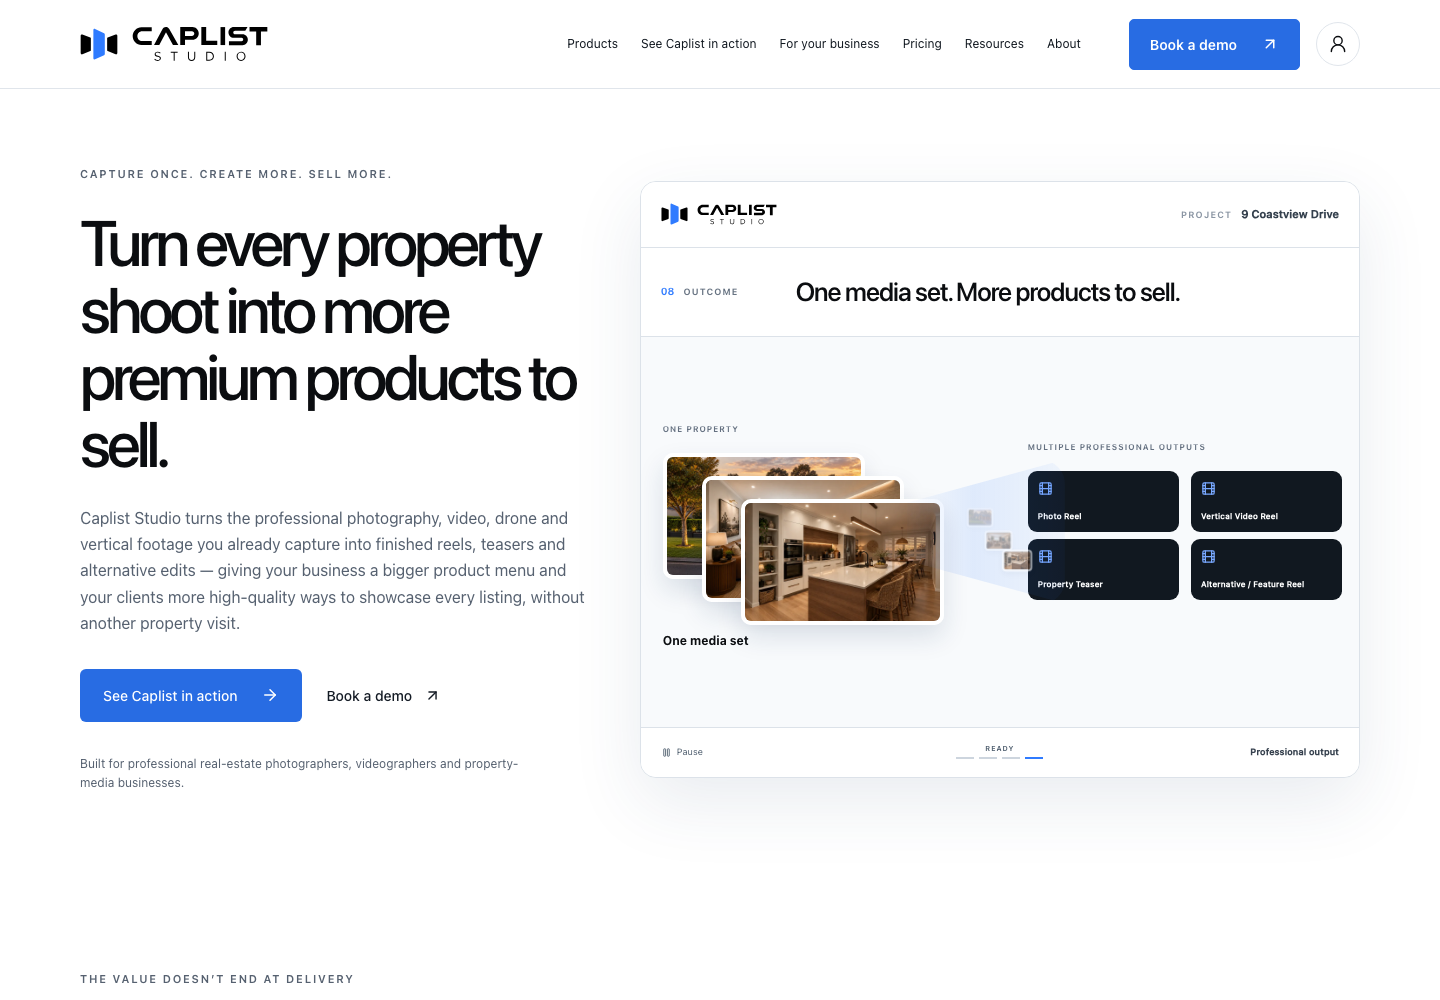
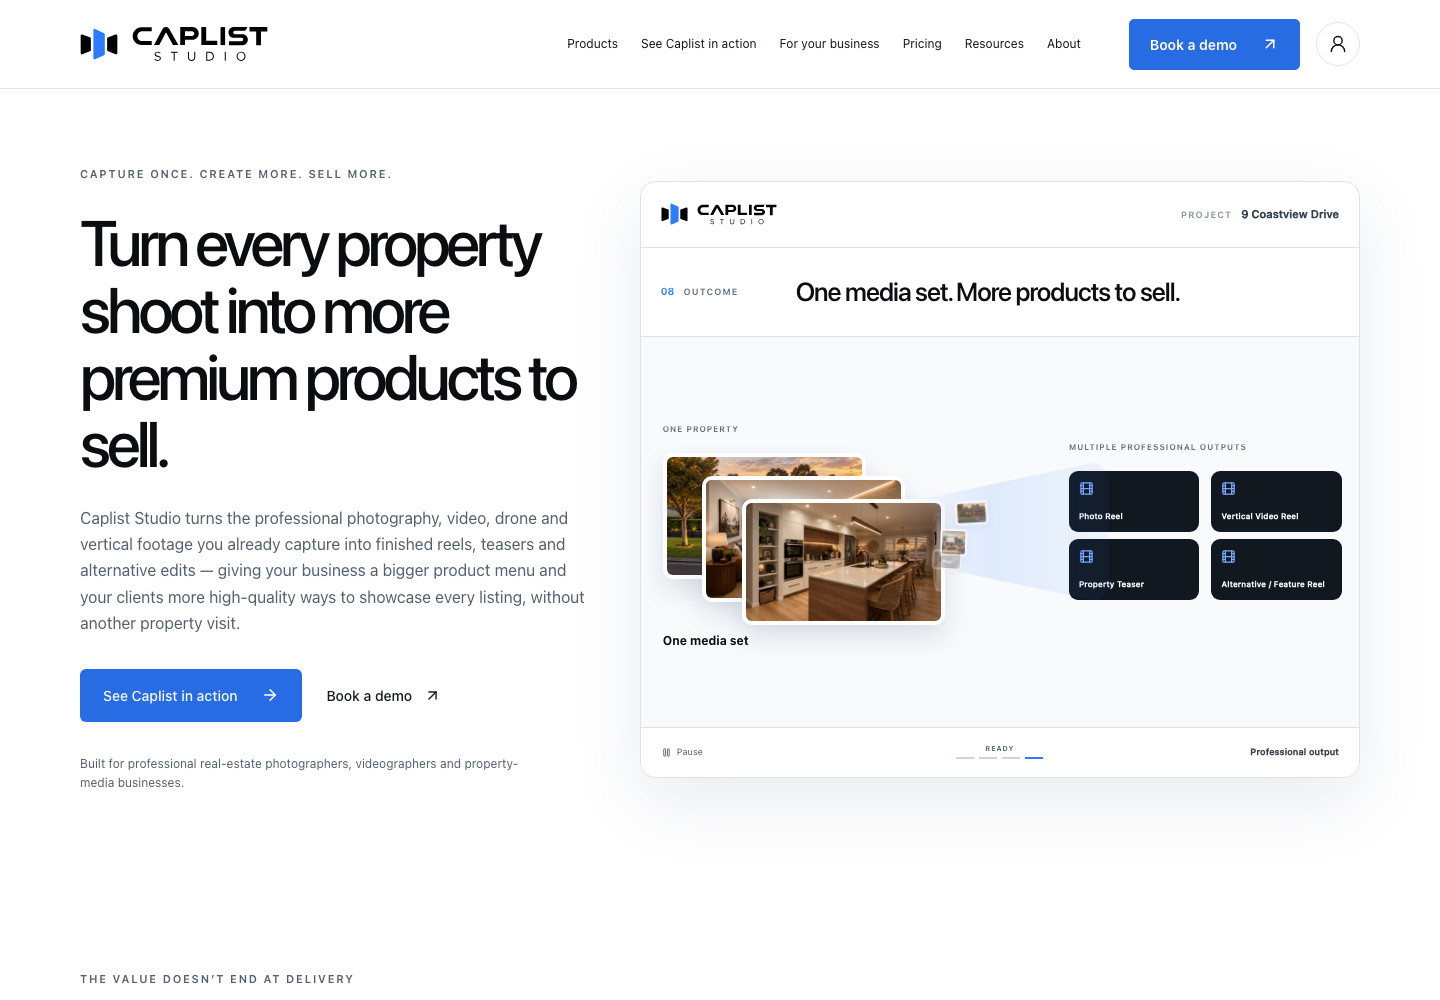
Refine Outcome funnel media flow

Changed region(s): [[0.625, 0.465, 0.7812, 0.62], [0.75, 0.434, 0.9062, 0.62], [0.5, 0.527, 0.5312, 0.558]]

diff --git a/components/home/workflow/workflow.module.css b/components/home/workflow/workflow.module.css
@@ -783,7 +783,7 @@
 .outcomeLayout {
   width: 100%;
   display: grid;
-  grid-template-columns: 1fr auto 1.1fr;
+  grid-template-columns: minmax(0, 1fr) 88px minmax(0, .95fr);
   align-items: center;
   gap: 18px;
 }
@@ -833,7 +833,7 @@
 
 .outcomeBridge {
   position: relative;
-  width: 48px;
+  width: 88px;
   height: 116px;
   display: grid;
   place-items: center;
@@ -841,8 +841,8 @@
 
 .outcomeBridge > i {
   position: absolute;
-  left: -55px;
-  width: calc(100% + 110px);
+  left: -58px;
+  width: calc(100% + 116px);
   height: 144px;
   display: block;
   background: linear-gradient(90deg, #2f7bff04, #2f7bff1f 42%, #2f7bff0c);
@@ -852,25 +852,29 @@
 
 .outcomeFragments {
   position: absolute;
-  inset: 0 -44px;
+  inset: 0 -40px;
   pointer-events: none;
 }
 
 .outcomeFragments img {
   position: absolute;
-  width: 32px;
-  height: 23px;
+  width: 33px;
+  height: 24px;
   object-fit: cover;
   border: 2px solid white;
   border-radius: 4px;
   box-shadow: 0 3px 8px #17385914;
-  left: 22%;
-  top: 28%;
-  opacity: .7;
+  left: 2%;
+  top: 24%;
+  opacity: .82;
+  transform: rotate(-3deg);
 }
 
-.outcomeFragments img:nth-child(2) { left: 43%; top: 48%; opacity: .45; }
-.outcomeFragments img:nth-child(3) { left: 67%; top: 65%; opacity: .2; }
+.outcomeFragments img:nth-child(2) { left: 37%; top: 48%; width: 27px; height: 27px; opacity: .48; transform: rotate(2deg); }
+.outcomeFragments img:nth-child(3) { left: 69%; top: 66%; width: 30px; height: 20px; opacity: .2; transform: rotate(4deg); }
+.animatedFragments img,
+.animatedFragments img:nth-child(2),
+.animatedFragments img:nth-child(3) { left: 2%; }
 .outcomeSource, .outcomeProducts { position: relative; z-index: 1; }
 .outcomeBridge { z-index: 2; pointer-events: none; }
 
@@ -878,6 +882,8 @@
   .outcomeBridge > i { left: -28px; width: calc(100% + 56px); height: 128px; }
   .outcomeFragments { inset-inline: -23px; }
   .outcomeFragments img { width: 20px; height: 15px; border-width: 1px; }
+  .outcomeFragments img:nth-child(2) { width: 17px; height: 17px; }
+  .outcomeFragments img:nth-child(3) { width: 18px; height: 13px; }
 }
 
 .outcomeProducts > div {

diff --git a/components/home/workflow/useWorkflowMotion.ts b/components/home/workflow/useWorkflowMotion.ts
@@ -113,16 +113,23 @@ export function useWorkflowMotion(state: WorkflowState, enabled: boolean, runnin
       case "ready":
         reveal(query("outputDetails"), 140);
         break;
-      case "outcome":
+      case "outcome": {
         run(query("outcomeBridge") + " i", [{ opacity: 0 }, { opacity: 1 }], 160, 360, 100);
-        run(query("outcomeFragments") + " img", [
-          { transform: `translateX(${mobile ? -18 : -35}px) scale(1)`, opacity: 0, filter: "blur(0px)" },
-          { offset: .2, transform: `translateX(${mobile ? -10 : -20}px) scale(1)`, opacity: .8, filter: "blur(0px)" },
-          { offset: .65, opacity: .35, filter: "blur(.5px)" },
-          { transform: `translateX(${mobile ? 16 : 32}px) scale(.75)`, opacity: 0, filter: "blur(1.2px)" },
-        ], 180, 2200, 180);
+        root.querySelectorAll<HTMLElement>(query("outcomeFragments") + " img").forEach((fragment, index) => {
+          const distance = mobile ? 62 : 150;
+          const angle = [-3, 2, 4][index];
+          const animation = fragment.animate([
+            { transform: `translateX(0px) rotate(${angle}deg) scale(1)`, opacity: 0, filter: "blur(0px)" },
+            { offset: .16, transform: `translateX(${distance * .12}px) rotate(${angle}deg) scale(1)`, opacity: .82, filter: "blur(0px)" },
+            { offset: .54, transform: `translateX(${distance * .55}px) rotate(${angle}deg) scale(.87)`, opacity: .48, filter: "blur(.35px)" },
+            { transform: `translateX(${distance}px) rotate(${angle}deg) scale(.7)`, opacity: 0, filter: "blur(1.2px)" },
+          ], { duration: 1950, delay: 160 + index * 160, fill: "both", easing: "ease-in-out" });
+          if (!active.current) animation.pause();
+          animations.current.push(animation);
+        });
         reveal(query("outcomeProducts") + " > p", 1250);
         break;
+      }
     }
     return () => {
       animations.current.forEach(animation => animation.cancel()); animations.current = [];

diff --git a/components/home/workflow/WorkflowScenes.tsx b/components/home/workflow/WorkflowScenes.tsx
@@ -267,7 +267,7 @@ function ReadyScene({ animated = false, running = false, paused = false }: { ani
   );
 }
 
-function OutcomeScene() {
+function OutcomeScene({ animated }: { animated: boolean }) {
   return (
     <div className={styles.outcomeLayout}>
       <div className={styles.outcomeSource}>
@@ -281,7 +281,7 @@ function OutcomeScene() {
       </div>
       <div className={styles.outcomeBridge} aria-hidden="true">
         <i />
-        <div className={styles.outcomeFragments}>
+        <div className={`${styles.outcomeFragments} ${animated ? styles.animatedFragments : ""}`}>
           {propertyMedia.slice(0, 3).map(media => <img key={media.src} src={media.src} alt="" />)}
         </div>
       </div>
@@ -307,6 +307,6 @@ export function WorkflowScene({ state, animated = false, running = false, paused
     case "choose": return <ChooseScene />;
     case "create": return <CreateScene animated={animated} />;
     case "ready": return <ReadyScene animated={animated} running={running} paused={paused} />;
-    case "outcome": return <OutcomeScene />;
+    case "outcome": return <OutcomeScene animated={animated} />;
   }
 }
